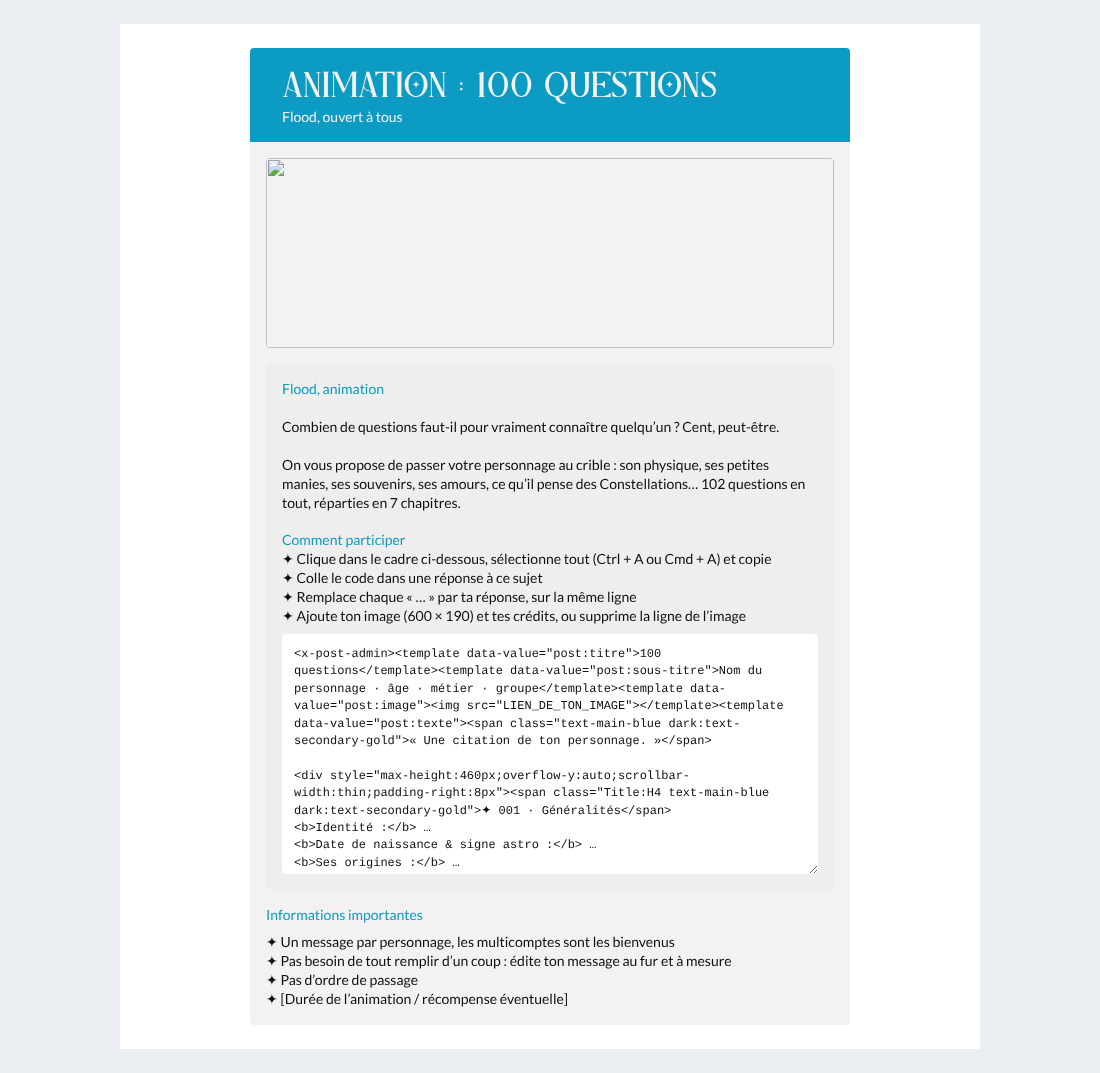
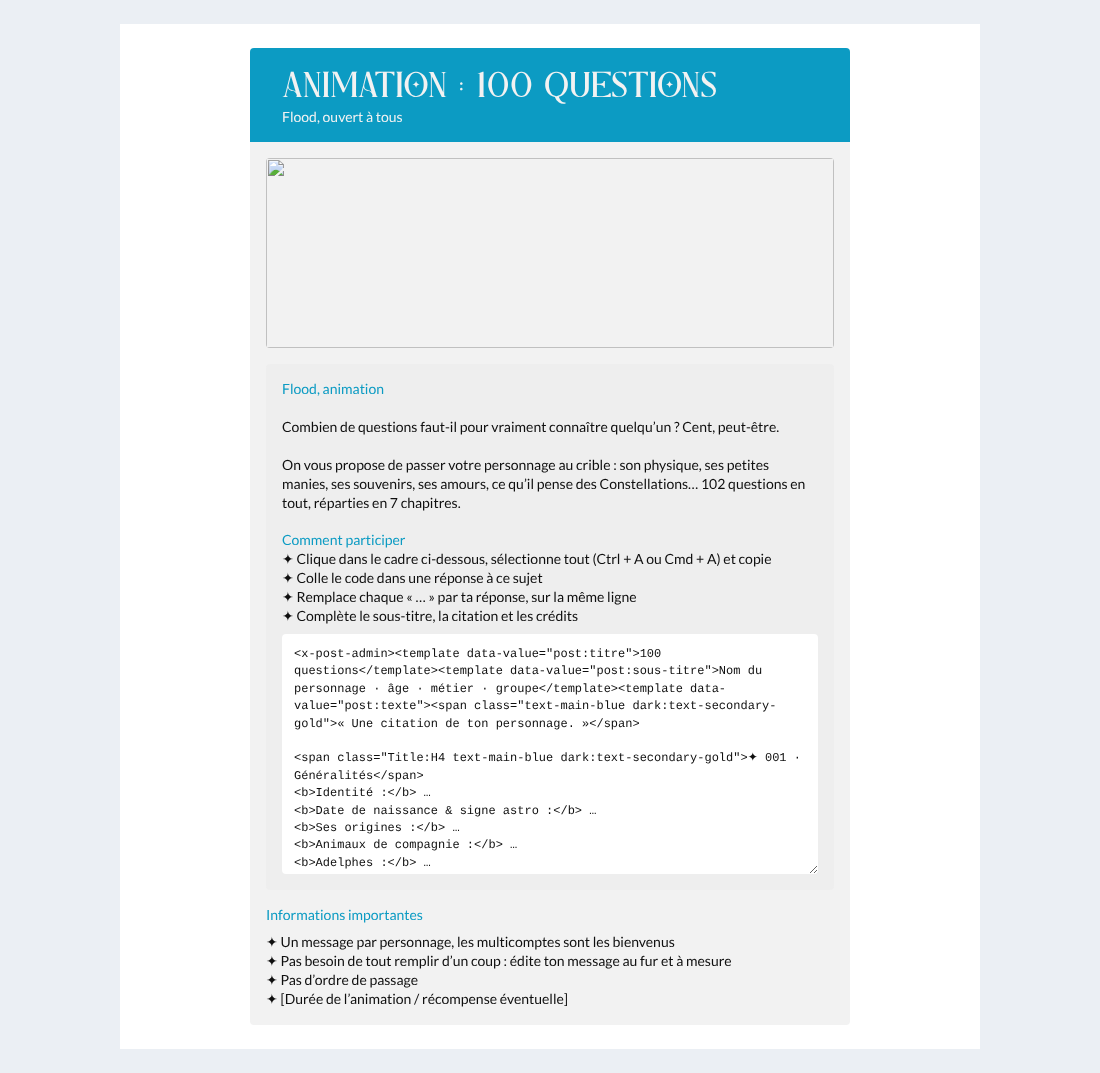
100 questions : retire l'image et la zone qui défile du code de réponse
Claude-Session: https://claude.ai/code/session_011pSGN7GDA4GAWyp28Daouk

Changed region(s): [[0.2782, 0.6459, 0.7109, 0.8304], [0.2782, 0.5536, 0.68, 0.5843]]

diff --git a/animations/100-questions/annonce.html b/animations/100-questions/annonce.html
@@ -8,6 +8,6 @@ On vous propose de passer votre personnage au crible : son physique, ses petites
 &#10022; Clique dans le cadre ci-dessous, sélectionne tout (Ctrl + A ou Cmd + A) et copie
 &#10022; Colle le code dans une réponse à ce sujet
 &#10022; Remplace chaque « … » par ta réponse, sur la même ligne
-&#10022; Ajoute ton image (600 × 190) et tes crédits, ou supprime la ligne de l’image
-<textarea readonly class="bg-white dark:bg-main-black text-main-black dark:text-main-white" style="display:block;width:100%;height:240px;box-sizing:border-box;margin-top:8px;padding:12px;border:0;border-radius:4px;font:12px/1.45 ui-monospace,Menlo,Consolas,monospace;resize:vertical">&lt;x-post-admin&gt;&lt;template data-value="post:titre"&gt;100 questions&lt;/template&gt;&lt;template data-value="post:sous-titre"&gt;Nom du personnage · âge · métier · groupe&lt;/template&gt;&lt;template data-value="post:image"&gt;&lt;img src="LIEN_DE_TON_IMAGE"&gt;&lt;/template&gt;&lt;template data-value="post:texte"&gt;&lt;span class="text-main-blue dark:text-secondary-gold"&gt;« Une citation de ton personnage. »&lt;/span&gt;&#13;&#13;&lt;div style="max-height:460px;overflow-y:auto;scrollbar-width:thin;padding-right:8px"&gt;&lt;span class="Title:H4 text-main-blue dark:text-secondary-gold"&gt;✦ 001 · Généralités&lt;/span&gt;&#13;&lt;b&gt;Identité :&lt;/b&gt; …&#13;&lt;b&gt;Date de naissance &amp; signe astro :&lt;/b&gt; …&#13;&lt;b&gt;Ses origines :&lt;/b&gt; …&#13;&lt;b&gt;Animaux de compagnie :&lt;/b&gt; …&#13;&lt;b&gt;Adelphes :&lt;/b&gt; …&#13;&lt;b&gt;Parents :&lt;/b&gt; …&#13;&lt;b&gt;Lieu d’habitation :&lt;/b&gt; …&#13;&lt;b&gt;Ses croyances :&lt;/b&gt; …&#13;&lt;b&gt;Métier :&lt;/b&gt; …&#13;&lt;b&gt;Études :&lt;/b&gt; …&#13;&#13;&lt;span class="Title:H4 text-main-blue dark:text-secondary-gold"&gt;✦ 002 · Physique&lt;/span&gt;&#13;&lt;b&gt;Taille :&lt;/b&gt; …&#13;&lt;b&gt;Poids :&lt;/b&gt; …&#13;&lt;b&gt;Corpulence :&lt;/b&gt; …&#13;&lt;b&gt;Cheveux :&lt;/b&gt; …&#13;&lt;b&gt;Yeux :&lt;/b&gt; …&#13;&lt;b&gt;Peau :&lt;/b&gt; …&#13;&lt;b&gt;Style vestimentaire :&lt;/b&gt; …&#13;&lt;b&gt;Piercings &amp; tatouages :&lt;/b&gt; …&#13;&lt;b&gt;Cicatrices :&lt;/b&gt; …&#13;&lt;b&gt;Détails particuliers :&lt;/b&gt; …&#13;&lt;b&gt;Ce qu’il préfère chez lui :&lt;/b&gt; …&#13;&lt;b&gt;Ce qu’il n’aime pas chez lui :&lt;/b&gt; …&#13;&lt;b&gt;Plutôt expressif ou inexpressif :&lt;/b&gt; …&#13;&lt;b&gt;Type de voix :&lt;/b&gt; …&#13;&lt;b&gt;Photogénique ou pas :&lt;/b&gt; …&#13;&lt;b&gt;Est-ce qu’il chante bien :&lt;/b&gt; …&#13;&lt;b&gt;Odeur :&lt;/b&gt; …&#13;&lt;b&gt;Skincare &amp; haircare :&lt;/b&gt; …&#13;&#13;&lt;span class="Title:H4 text-main-blue dark:text-secondary-gold"&gt;✦ 003 · Psychologie&lt;/span&gt;&#13;&lt;b&gt;Ses qualités :&lt;/b&gt; …&#13;&lt;b&gt;Ses défauts :&lt;/b&gt; …&#13;&lt;b&gt;Son type d’humour :&lt;/b&gt; …&#13;&lt;b&gt;Ses peurs :&lt;/b&gt; …&#13;&lt;b&gt;Sa conception du bonheur :&lt;/b&gt; …&#13;&lt;b&gt;Sa conception de la mort :&lt;/b&gt; …&#13;&lt;b&gt;Un meme / gif qui le décrirait :&lt;/b&gt; …&#13;&lt;b&gt;Sa philosophie :&lt;/b&gt; …&#13;&lt;b&gt;Ses superstitions :&lt;/b&gt; …&#13;&lt;b&gt;Croit-il en l’astrologie :&lt;/b&gt; …&#13;&#13;&lt;span class="Title:H4 text-main-blue dark:text-secondary-gold"&gt;✦ 004 · Habitudes &amp; goûts&lt;/span&gt;&#13;&lt;b&gt;Droitier, gaucher, ambidextre :&lt;/b&gt; …&#13;&lt;b&gt;Organisé ou bordélique :&lt;/b&gt; …&#13;&lt;b&gt;Maniaque ou mimi cracra :&lt;/b&gt; …&#13;&lt;b&gt;Sa morning routine :&lt;/b&gt; …&#13;&lt;b&gt;Sa night routine :&lt;/b&gt; …&#13;&lt;b&gt;Early bird ou night owl :&lt;/b&gt; …&#13;&lt;b&gt;Son hygiène de vie :&lt;/b&gt; …&#13;&lt;b&gt;Couleur préférée :&lt;/b&gt; …&#13;&lt;b&gt;Animal fétiche :&lt;/b&gt; …&#13;&lt;b&gt;Chiffre porte-bonheur :&lt;/b&gt; …&#13;&lt;b&gt;Saison préférée :&lt;/b&gt; …&#13;&lt;b&gt;Boisson préférée :&lt;/b&gt; …&#13;&lt;b&gt;Plat préféré :&lt;/b&gt; …&#13;&lt;b&gt;Dessert préféré :&lt;/b&gt; …&#13;&lt;b&gt;Type de musique qu’il écoute :&lt;/b&gt; …&#13;&lt;b&gt;L’élément qui lui correspond :&lt;/b&gt; …&#13;&lt;b&gt;Objet fétiche :&lt;/b&gt; …&#13;&lt;b&gt;Matérialiste ou minimaliste :&lt;/b&gt; …&#13;&lt;b&gt;Sa position favorite pour dormir :&lt;/b&gt; …&#13;&lt;b&gt;Team contractant ou anti-contractant :&lt;/b&gt; …&#13;&lt;b&gt;Panthéon favori :&lt;/b&gt; …&#13;&lt;b&gt;Constellation favorite :&lt;/b&gt; …&#13;&lt;b&gt;Lait avant ou après les céréales :&lt;/b&gt; …&#13;&#13;&lt;span class="Title:H4 text-main-blue dark:text-secondary-gold"&gt;✦ 005 · Ambitions &amp; expériences&lt;/span&gt;&#13;&lt;b&gt;Son métier idéal :&lt;/b&gt; …&#13;&lt;b&gt;Est-ce qu’il veut des enfants :&lt;/b&gt; …&#13;&lt;b&gt;Veut-il se marier :&lt;/b&gt; …&#13;&lt;b&gt;Son enfance :&lt;/b&gt; …&#13;&lt;b&gt;Son plus gros caprice :&lt;/b&gt; …&#13;&lt;b&gt;Son plus gros sacrifice :&lt;/b&gt; …&#13;&lt;b&gt;Son plus grand regret :&lt;/b&gt; …&#13;&lt;b&gt;Son plus beau souvenir :&lt;/b&gt; …&#13;&lt;b&gt;Sa plus grande honte :&lt;/b&gt; …&#13;&lt;b&gt;A-t-il déjà été gravement blessé :&lt;/b&gt; …&#13;&lt;b&gt;Ses amours :&lt;/b&gt; …&#13;&lt;b&gt;A-t-il trahi quelqu’un :&lt;/b&gt; …&#13;&lt;b&gt;A-t-il été trahi :&lt;/b&gt; …&#13;&lt;b&gt;A-t-il menti à ses proches :&lt;/b&gt; …&#13;&#13;&lt;span class="Title:H4 text-main-blue dark:text-secondary-gold"&gt;✦ 006 · Relationnel&lt;/span&gt;&#13;&lt;b&gt;Quelqu’un qui lui manque :&lt;/b&gt; …&#13;&lt;b&gt;En couple ou célibataire :&lt;/b&gt; …&#13;&lt;b&gt;Amoureux :&lt;/b&gt; …&#13;&lt;b&gt;Orientation :&lt;/b&gt; …&#13;&lt;b&gt;Son ou ses meilleurs amis :&lt;/b&gt; …&#13;&lt;b&gt;Sociable ou réservé :&lt;/b&gt; …&#13;&lt;b&gt;Est-ce une chipie :&lt;/b&gt; …&#13;&lt;b&gt;Est-il jaloux / possessif :&lt;/b&gt; …&#13;&lt;b&gt;Tendance à rompre ou à se faire plaquer :&lt;/b&gt; …&#13;&lt;b&gt;Comment est-il quand il est amoureux :&lt;/b&gt; …&#13;&lt;b&gt;Comment est-il après une rupture :&lt;/b&gt; …&#13;&lt;b&gt;Comment gère-t-il les confessions :&lt;/b&gt; …&#13;&lt;b&gt;Lorsqu’il va mal, a-t-il tendance à s’exprimer ou à tout garder pour lui :&lt;/b&gt; …&#13;&#13;&lt;span class="Title:H4 text-main-blue dark:text-secondary-gold"&gt;✦ 007 · Polaris&lt;/span&gt;&#13;&lt;b&gt;Que pense-t-il des contractants :&lt;/b&gt; …&#13;&lt;b&gt;Que pense-t-il des Constellations :&lt;/b&gt; …&#13;&lt;b&gt;Des Gardiens :&lt;/b&gt; …&#13;&lt;b&gt;Des Traqueurs :&lt;/b&gt; …&#13;&lt;b&gt;Des Dissidents :&lt;/b&gt; …&#13;&lt;b&gt;Des Satellites :&lt;/b&gt; …&#13;&lt;b&gt;S’intéresse-t-il à la politique :&lt;/b&gt; …&#13;&lt;b&gt;S’il devait élire ou réélire un membre de la Commission :&lt;/b&gt; …&#13;&lt;b&gt;A-t-il déjà assisté à un procès de l’Héliaste :&lt;/b&gt; …&#13;&lt;b&gt;L’endroit où il préfère aller :&lt;/b&gt; …&#13;&lt;b&gt;L’endroit qu’il aime le moins :&lt;/b&gt; …&#13;&lt;b&gt;Garderait-il une relique pour lui, en secret :&lt;/b&gt; …&#13;&lt;b&gt;S’il pouvait devenir ami avec une Constellation :&lt;/b&gt; …&#13;&lt;b&gt;S’il devait nommer son pouvoir / ses attaques :&lt;/b&gt; …&lt;/div&gt;&lt;/template&gt;&#13;&lt;template data-value="post:note"&gt;&lt;div class="text-main-blue dark:text-secondary-light-purple mb-2"&gt;Crédits&lt;/div&gt;&amp;#10022; Avatar : …&lt;br /&gt;&amp;#10022; Image : …&lt;/template&gt;&lt;/x-post-admin&gt;</textarea></template>
+&#10022; Complète le sous-titre, la citation et les crédits
+<textarea readonly class="bg-white dark:bg-main-black text-main-black dark:text-main-white" style="display:block;width:100%;height:240px;box-sizing:border-box;margin-top:8px;padding:12px;border:0;border-radius:4px;font:12px/1.45 ui-monospace,Menlo,Consolas,monospace;resize:vertical">&lt;x-post-admin&gt;&lt;template data-value="post:titre"&gt;100 questions&lt;/template&gt;&lt;template data-value="post:sous-titre"&gt;Nom du personnage · âge · métier · groupe&lt;/template&gt;&lt;template data-value="post:texte"&gt;&lt;span class="text-main-blue dark:text-secondary-gold"&gt;« Une citation de ton personnage. »&lt;/span&gt;&#13;&#13;&lt;span class="Title:H4 text-main-blue dark:text-secondary-gold"&gt;✦ 001 · Généralités&lt;/span&gt;&#13;&lt;b&gt;Identité :&lt;/b&gt; …&#13;&lt;b&gt;Date de naissance &amp; signe astro :&lt;/b&gt; …&#13;&lt;b&gt;Ses origines :&lt;/b&gt; …&#13;&lt;b&gt;Animaux de compagnie :&lt;/b&gt; …&#13;&lt;b&gt;Adelphes :&lt;/b&gt; …&#13;&lt;b&gt;Parents :&lt;/b&gt; …&#13;&lt;b&gt;Lieu d’habitation :&lt;/b&gt; …&#13;&lt;b&gt;Ses croyances :&lt;/b&gt; …&#13;&lt;b&gt;Métier :&lt;/b&gt; …&#13;&lt;b&gt;Études :&lt;/b&gt; …&#13;&#13;&lt;span class="Title:H4 text-main-blue dark:text-secondary-gold"&gt;✦ 002 · Physique&lt;/span&gt;&#13;&lt;b&gt;Taille :&lt;/b&gt; …&#13;&lt;b&gt;Poids :&lt;/b&gt; …&#13;&lt;b&gt;Corpulence :&lt;/b&gt; …&#13;&lt;b&gt;Cheveux :&lt;/b&gt; …&#13;&lt;b&gt;Yeux :&lt;/b&gt; …&#13;&lt;b&gt;Peau :&lt;/b&gt; …&#13;&lt;b&gt;Style vestimentaire :&lt;/b&gt; …&#13;&lt;b&gt;Piercings &amp; tatouages :&lt;/b&gt; …&#13;&lt;b&gt;Cicatrices :&lt;/b&gt; …&#13;&lt;b&gt;Détails particuliers :&lt;/b&gt; …&#13;&lt;b&gt;Ce qu’il préfère chez lui :&lt;/b&gt; …&#13;&lt;b&gt;Ce qu’il n’aime pas chez lui :&lt;/b&gt; …&#13;&lt;b&gt;Plutôt expressif ou inexpressif :&lt;/b&gt; …&#13;&lt;b&gt;Type de voix :&lt;/b&gt; …&#13;&lt;b&gt;Photogénique ou pas :&lt;/b&gt; …&#13;&lt;b&gt;Est-ce qu’il chante bien :&lt;/b&gt; …&#13;&lt;b&gt;Odeur :&lt;/b&gt; …&#13;&lt;b&gt;Skincare &amp; haircare :&lt;/b&gt; …&#13;&#13;&lt;span class="Title:H4 text-main-blue dark:text-secondary-gold"&gt;✦ 003 · Psychologie&lt;/span&gt;&#13;&lt;b&gt;Ses qualités :&lt;/b&gt; …&#13;&lt;b&gt;Ses défauts :&lt;/b&gt; …&#13;&lt;b&gt;Son type d’humour :&lt;/b&gt; …&#13;&lt;b&gt;Ses peurs :&lt;/b&gt; …&#13;&lt;b&gt;Sa conception du bonheur :&lt;/b&gt; …&#13;&lt;b&gt;Sa conception de la mort :&lt;/b&gt; …&#13;&lt;b&gt;Un meme / gif qui le décrirait :&lt;/b&gt; …&#13;&lt;b&gt;Sa philosophie :&lt;/b&gt; …&#13;&lt;b&gt;Ses superstitions :&lt;/b&gt; …&#13;&lt;b&gt;Croit-il en l’astrologie :&lt;/b&gt; …&#13;&#13;&lt;span class="Title:H4 text-main-blue dark:text-secondary-gold"&gt;✦ 004 · Habitudes &amp; goûts&lt;/span&gt;&#13;&lt;b&gt;Droitier, gaucher, ambidextre :&lt;/b&gt; …&#13;&lt;b&gt;Organisé ou bordélique :&lt;/b&gt; …&#13;&lt;b&gt;Maniaque ou mimi cracra :&lt;/b&gt; …&#13;&lt;b&gt;Sa morning routine :&lt;/b&gt; …&#13;&lt;b&gt;Sa night routine :&lt;/b&gt; …&#13;&lt;b&gt;Early bird ou night owl :&lt;/b&gt; …&#13;&lt;b&gt;Son hygiène de vie :&lt;/b&gt; …&#13;&lt;b&gt;Couleur préférée :&lt;/b&gt; …&#13;&lt;b&gt;Animal fétiche :&lt;/b&gt; …&#13;&lt;b&gt;Chiffre porte-bonheur :&lt;/b&gt; …&#13;&lt;b&gt;Saison préférée :&lt;/b&gt; …&#13;&lt;b&gt;Boisson préférée :&lt;/b&gt; …&#13;&lt;b&gt;Plat préféré :&lt;/b&gt; …&#13;&lt;b&gt;Dessert préféré :&lt;/b&gt; …&#13;&lt;b&gt;Type de musique qu’il écoute :&lt;/b&gt; …&#13;&lt;b&gt;L’élément qui lui correspond :&lt;/b&gt; …&#13;&lt;b&gt;Objet fétiche :&lt;/b&gt; …&#13;&lt;b&gt;Matérialiste ou minimaliste :&lt;/b&gt; …&#13;&lt;b&gt;Sa position favorite pour dormir :&lt;/b&gt; …&#13;&lt;b&gt;Team contractant ou anti-contractant :&lt;/b&gt; …&#13;&lt;b&gt;Panthéon favori :&lt;/b&gt; …&#13;&lt;b&gt;Constellation favorite :&lt;/b&gt; …&#13;&lt;b&gt;Lait avant ou après les céréales :&lt;/b&gt; …&#13;&#13;&lt;span class="Title:H4 text-main-blue dark:text-secondary-gold"&gt;✦ 005 · Ambitions &amp; expériences&lt;/span&gt;&#13;&lt;b&gt;Son métier idéal :&lt;/b&gt; …&#13;&lt;b&gt;Est-ce qu’il veut des enfants :&lt;/b&gt; …&#13;&lt;b&gt;Veut-il se marier :&lt;/b&gt; …&#13;&lt;b&gt;Son enfance :&lt;/b&gt; …&#13;&lt;b&gt;Son plus gros caprice :&lt;/b&gt; …&#13;&lt;b&gt;Son plus gros sacrifice :&lt;/b&gt; …&#13;&lt;b&gt;Son plus grand regret :&lt;/b&gt; …&#13;&lt;b&gt;Son plus beau souvenir :&lt;/b&gt; …&#13;&lt;b&gt;Sa plus grande honte :&lt;/b&gt; …&#13;&lt;b&gt;A-t-il déjà été gravement blessé :&lt;/b&gt; …&#13;&lt;b&gt;Ses amours :&lt;/b&gt; …&#13;&lt;b&gt;A-t-il trahi quelqu’un :&lt;/b&gt; …&#13;&lt;b&gt;A-t-il été trahi :&lt;/b&gt; …&#13;&lt;b&gt;A-t-il menti à ses proches :&lt;/b&gt; …&#13;&#13;&lt;span class="Title:H4 text-main-blue dark:text-secondary-gold"&gt;✦ 006 · Relationnel&lt;/span&gt;&#13;&lt;b&gt;Quelqu’un qui lui manque :&lt;/b&gt; …&#13;&lt;b&gt;En couple ou célibataire :&lt;/b&gt; …&#13;&lt;b&gt;Amoureux :&lt;/b&gt; …&#13;&lt;b&gt;Orientation :&lt;/b&gt; …&#13;&lt;b&gt;Son ou ses meilleurs amis :&lt;/b&gt; …&#13;&lt;b&gt;Sociable ou réservé :&lt;/b&gt; …&#13;&lt;b&gt;Est-ce une chipie :&lt;/b&gt; …&#13;&lt;b&gt;Est-il jaloux / possessif :&lt;/b&gt; …&#13;&lt;b&gt;Tendance à rompre ou à se faire plaquer :&lt;/b&gt; …&#13;&lt;b&gt;Comment est-il quand il est amoureux :&lt;/b&gt; …&#13;&lt;b&gt;Comment est-il après une rupture :&lt;/b&gt; …&#13;&lt;b&gt;Comment gère-t-il les confessions :&lt;/b&gt; …&#13;&lt;b&gt;Lorsqu’il va mal, a-t-il tendance à s’exprimer ou à tout garder pour lui :&lt;/b&gt; …&#13;&#13;&lt;span class="Title:H4 text-main-blue dark:text-secondary-gold"&gt;✦ 007 · Polaris&lt;/span&gt;&#13;&lt;b&gt;Que pense-t-il des contractants :&lt;/b&gt; …&#13;&lt;b&gt;Que pense-t-il des Constellations :&lt;/b&gt; …&#13;&lt;b&gt;Des Gardiens :&lt;/b&gt; …&#13;&lt;b&gt;Des Traqueurs :&lt;/b&gt; …&#13;&lt;b&gt;Des Dissidents :&lt;/b&gt; …&#13;&lt;b&gt;Des Satellites :&lt;/b&gt; …&#13;&lt;b&gt;S’intéresse-t-il à la politique :&lt;/b&gt; …&#13;&lt;b&gt;S’il devait élire ou réélire un membre de la Commission :&lt;/b&gt; …&#13;&lt;b&gt;A-t-il déjà assisté à un procès de l’Héliaste :&lt;/b&gt; …&#13;&lt;b&gt;L’endroit où il préfère aller :&lt;/b&gt; …&#13;&lt;b&gt;L’endroit qu’il aime le moins :&lt;/b&gt; …&#13;&lt;b&gt;Garderait-il une relique pour lui, en secret :&lt;/b&gt; …&#13;&lt;b&gt;S’il pouvait devenir ami avec une Constellation :&lt;/b&gt; …&#13;&lt;b&gt;S’il devait nommer son pouvoir / ses attaques :&lt;/b&gt; …&lt;/template&gt;&#13;&lt;template data-value="post:note"&gt;&lt;div class="text-main-blue dark:text-secondary-light-purple mb-2"&gt;Crédits&lt;/div&gt;&amp;#10022; Avatar : …&lt;/template&gt;&lt;/x-post-admin&gt;</textarea></template>
 <template data-value="post:note"><div class="text-main-blue dark:text-secondary-light-purple mb-2">Informations importantes</div>&#10022; Un message par personnage, les multicomptes sont les bienvenus<br />&#10022; Pas besoin de tout remplir d’un coup : édite ton message au fur et à mesure<br />&#10022; Pas d’ordre de passage<br />&#10022; [Durée de l’animation / récompense éventuelle]</template></x-post-admin>

diff --git a/animations/100-questions/code-reponse.html b/animations/100-questions/code-reponse.html
@@ -1,6 +1,6 @@
-<x-post-admin><template data-value="post:titre">100 questions</template><template data-value="post:sous-titre">Nom du personnage · âge · métier · groupe</template><template data-value="post:image"><img src="LIEN_DE_TON_IMAGE"></template><template data-value="post:texte"><span class="text-main-blue dark:text-secondary-gold">« Une citation de ton personnage. »</span>
+<x-post-admin><template data-value="post:titre">100 questions</template><template data-value="post:sous-titre">Nom du personnage · âge · métier · groupe</template><template data-value="post:texte"><span class="text-main-blue dark:text-secondary-gold">« Une citation de ton personnage. »</span>
 
-<div style="max-height:460px;overflow-y:auto;scrollbar-width:thin;padding-right:8px"><span class="Title:H4 text-main-blue dark:text-secondary-gold">✦ 001 · Généralités</span>
+<span class="Title:H4 text-main-blue dark:text-secondary-gold">✦ 001 · Généralités</span>
 <b>Identité :</b> …
 <b>Date de naissance & signe astro :</b> …
 <b>Ses origines :</b> …
@@ -114,5 +114,5 @@
 <b>L’endroit qu’il aime le moins :</b> …
 <b>Garderait-il une relique pour lui, en secret :</b> …
 <b>S’il pouvait devenir ami avec une Constellation :</b> …
-<b>S’il devait nommer son pouvoir / ses attaques :</b> …</div></template>
-<template data-value="post:note"><div class="text-main-blue dark:text-secondary-light-purple mb-2">Crédits</div>&#10022; Avatar : …<br />&#10022; Image : …</template></x-post-admin>
+<b>S’il devait nommer son pouvoir / ses attaques :</b> …</template>
+<template data-value="post:note"><div class="text-main-blue dark:text-secondary-light-purple mb-2">Crédits</div>&#10022; Avatar : …</template></x-post-admin>

diff --git a/animations/100-questions/generer.py b/animations/100-questions/generer.py
@@ -60,10 +60,8 @@ lines = []
 w = lines.append
 w('<x-post-admin><template data-value="post:titre">100 questions</template>'
   '<template data-value="post:sous-titre">Nom du personnage · âge · métier · groupe</template>'
-  '<template data-value="post:image"><img src="LIEN_DE_TON_IMAGE"></template>'
   f'<template data-value="post:texte"><span class="{ACCENT}">« Une citation de ton personnage. »</span>')
 w('')
-# Zone qui défile : le premier contenu suit la balise ouvrante pour éviter un <br /> en tête.
 body = []
 for i, (title, _icon, qs) in enumerate(SECTIONS, 1):
     if i > 1:
@@ -72,11 +70,10 @@ for i, (title, _icon, qs) in enumerate(SECTIONS, 1):
     for q in qs:
         label = q[0] if isinstance(q, tuple) else q
         body.append(f'<b>{label} :</b> …')
-body[0] = '<div style="max-height:460px;overflow-y:auto;scrollbar-width:thin;padding-right:8px">' + body[0]
-body[-1] += '</div></template>'
+body[-1] += '</template>'
 lines += body
 lines.append('<template data-value="post:note"><div class="text-main-blue dark:text-secondary-light-purple mb-2">Crédits</div>'
-             '&#10022; Avatar : …<br />&#10022; Image : …</template></x-post-admin>')
+             '&#10022; Avatar : …</template></x-post-admin>')
 sys.stdout.write("\n".join(lines))
 print(TOTAL, file=sys.stderr)
 
@@ -110,7 +107,7 @@ annonce = "\n".join([
     '&#10022; Clique dans le cadre ci-dessous, sélectionne tout (Ctrl + A ou Cmd + A) et copie',
     '&#10022; Colle le code dans une réponse à ce sujet',
     '&#10022; Remplace chaque « … » par ta réponse, sur la même ligne',
-    '&#10022; Ajoute ton image (600 × 190) et tes crédits, ou supprime la ligne de l’image',
+    '&#10022; Complète le sous-titre, la citation et les crédits',
     zone + '</template>',
     '<template data-value="post:note"><div class="text-main-blue dark:text-secondary-light-purple mb-2">Informations importantes</div>'
     '&#10022; Un message par personnage, les multicomptes sont les bienvenus<br />'

diff --git a/animations/100-questions/README.md b/animations/100-questions/README.md
@@ -6,13 +6,11 @@ réponde aux questions sur son personnage (liste reprise de la page Notion *100 
 
 Le code utilise le composant du forum **`<x-post-admin>`**, le même que les sujets d'event
 (ex. *Évent n° 2 : Attrapez les tous !*) : en-tête violet la nuit et bleu le jour, image,
-bloc de texte, note. Le style vient du forum : rien à héberger, et le thème jour / nuit suit tout seul.
+bloc de texte, note (sans image dans la réponse). Le style vient du forum : rien à héberger, et le thème jour / nuit suit tout seul.
 
 | Nuit | Jour | Mobile |
 |---|---|---|
 | ![](apercu-nuit.png) | ![](apercu-jour.png) | ![](apercu-mobile-nuit.png) |
-
-*(Les aperçus montrent l'image de l'event n° 2 à la place de `LIEN_DE_TON_IMAGE`.)*
 
 ## Message d'annonce (staff)
 
@@ -38,14 +36,10 @@ forum, le texte copié est identique à `code-reponse.html`. Si on modifie l'ann
 1. Copier tout le contenu de [`code-reponse.html`](code-reponse.html) et le coller dans une réponse.
 2. Remplacer :
    - `Nom du personnage · âge · métier · groupe` (sous-titre) ;
-   - `LIEN_DE_TON_IMAGE` : une image en bandeau (environ 600 × 190 px). Pas d'image ?
-     Supprimer `<img src="LIEN_DE_TON_IMAGE">` : le cadre disparaît ;
    - la citation ;
    - chaque `…` après une question, par ta réponse (sur la même ligne) ;
    - les crédits en bas.
 3. Une ligne du code = une ligne affichée : ne pas ajouter de retour à la ligne entre deux questions.
-
-Les questions sont dans une zone qui défile (460 px de haut) pour ne pas allonger le Flood.
 
 ## Structure du code
 
@@ -53,7 +47,6 @@ Les questions sont dans une zone qui défile (460 px de haut) pour ne pas allong
 |---|---|
 | `post:titre` | « 100 questions » |
 | `post:sous-titre` | nom et infos du personnage |
-| `post:image` | bandeau du membre (ou deux images `hidden dark:block` / `block dark:hidden` pour jour et nuit) |
 | `post:texte` | citation, puis les 7 chapitres (`Title:H4` jaune la nuit, bleu le jour) et les questions en gras |
 | `post:note` | crédits (titre violet clair la nuit, bleu le jour) |
 
